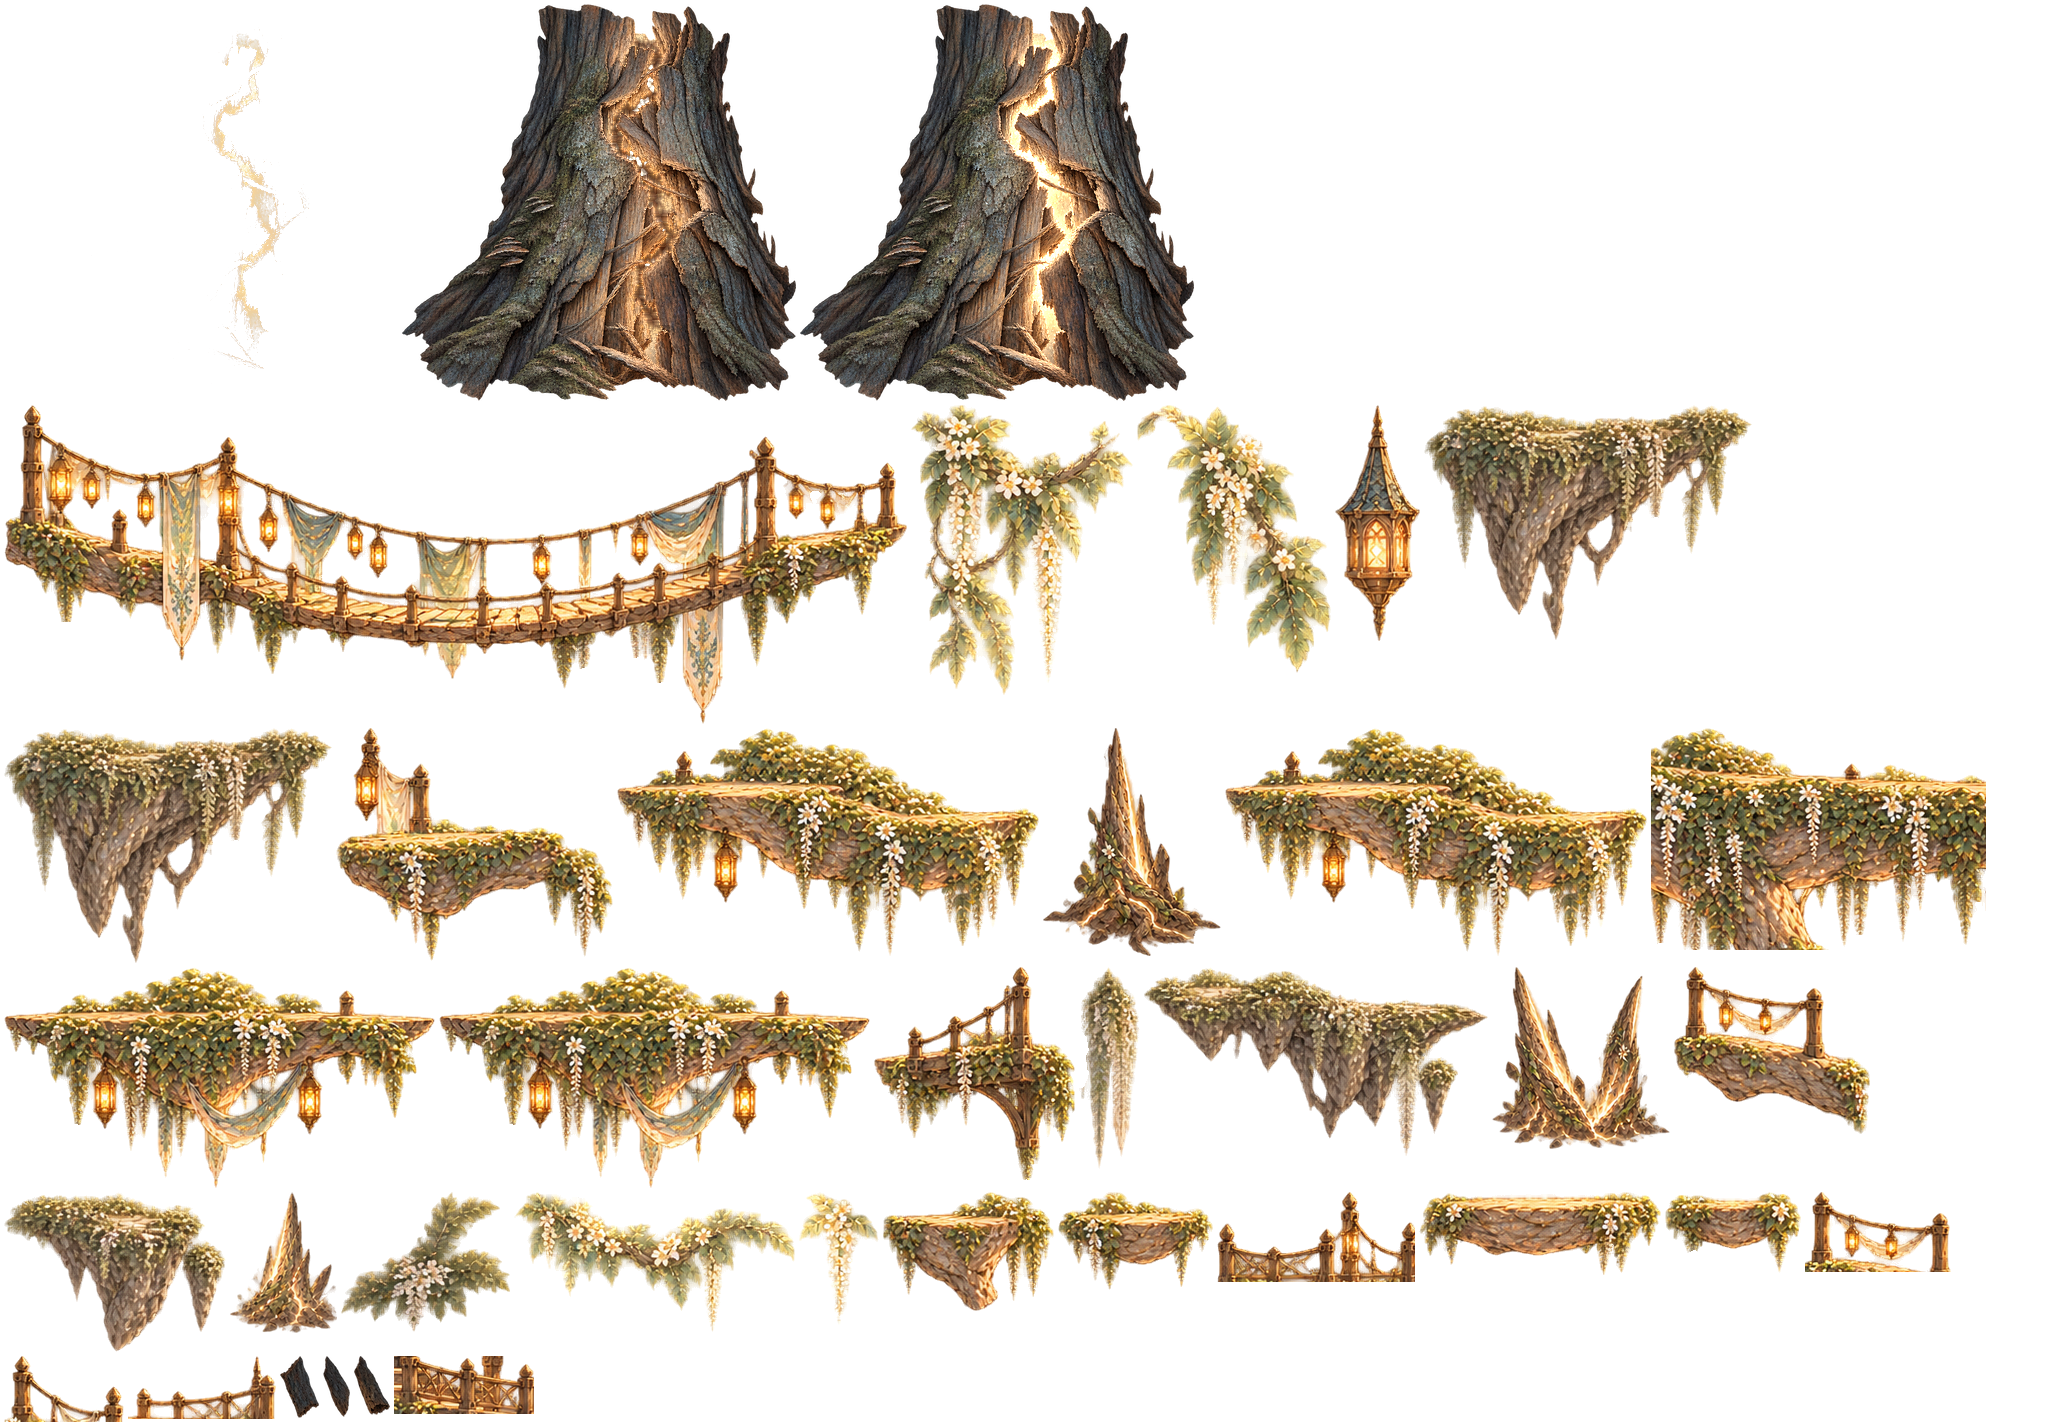
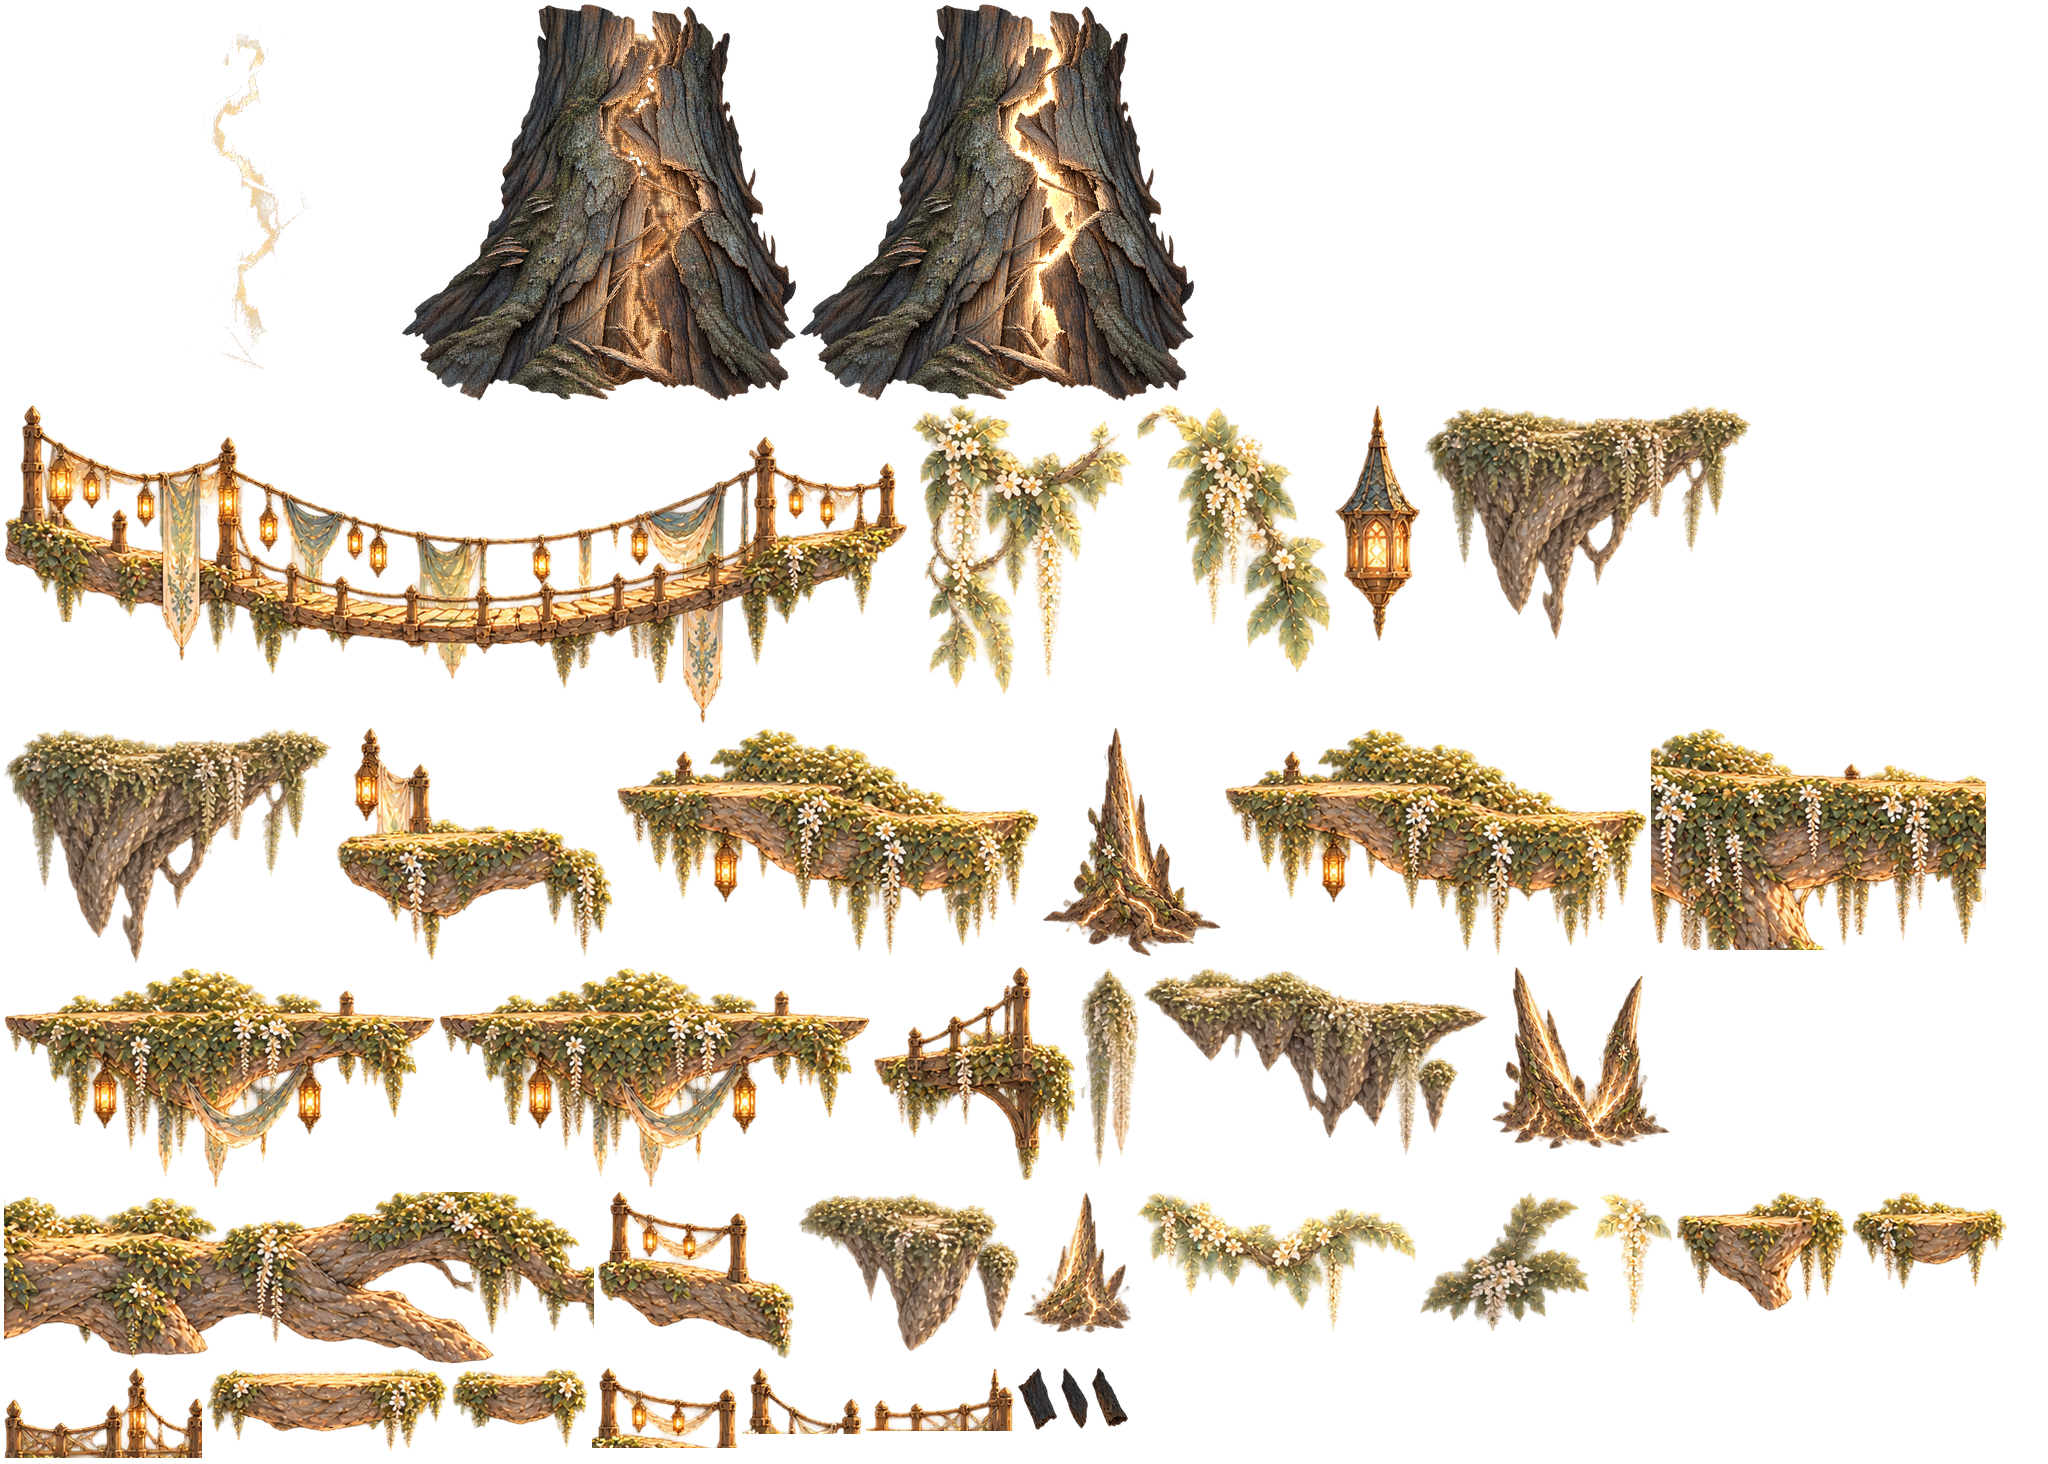
지형 리뉴얼(마을): 이끼·꽃 덮인 굵은 가지 바닥 띠(top_e), 어지러운 난간 조각 빼기, 설명서(TERRAIN.md 7장)·기획서 한 줄

diff --git a/TERRAIN.md b/TERRAIN.md
@@ -4,7 +4,7 @@
 코드로 그리던 옛 지형(`TerrainStyle`, 이끼·덩굴을 도형으로 그림)을 지역별로 하나씩 바꿔 간다.
 **충돌(발판 사각형·경사 다각형)은 그대로**고, 겉모습만 바뀐다. 그림 옷이 없는 지역은 옛 방식으로 그대로 그린다.
 
-지금 그림 옷이 있는 지역: **수관(canopy)** 13방 전부.
+지금 그림 옷이 있는 지역: **수관(canopy)** 13방 전부, **마을(village)** 6방 전부 (`data/terrain/village.json` — 아래 7장).
 
 ---
 
@@ -38,6 +38,7 @@
 | `ground` | 큰 바닥·덩어리·두꺼운 경사의 드러난 윗면 | 윗면을 따라 토막을 이어 깐다. 발 선 아래 `band` px 까지만 그리고 `fade` px 동안 몸통 결로 녹아든다. 절벽 끝은 끝 조각(뿌리가 늘어진 부분), 이웃 지형으로 이어지면 `overlap` px 겹쳐 서서히 사라진다 |
 | `hang` | 드러난 아랫면(천장·덩어리 밑), 드러난 높은 옆면 | 덩굴·꽃 조각을 띄엄띄엄 매단다 |
 | `bush` | 큰 윗면 | 가끔 작은 덤불 |
+| `prop` | 큰 윗면 (그 역할이 있는 지역만 — 마을의 난간·등불 줄 토막) | 띠 위에 띄엄띄엄 세운다(`params.prop`: gap_min/gap_max 빈 길이, edge 절벽 끝 거리, sink 밑동 묻기 — 밑동은 서서히 사라짐, min_len, clear, size). 방의 `Exits`·`Interactables`·`Markers` 자리 둘레(clear px)는 비운다. 그림만, 소녀 뒤 |
 | `thorn` | 가시(Thorns) | 크기를 섞어 두 줄로 겹쳐 세운다. 밑동은 밑면에 `sink` px 묻고, 끝은 상자 높이의 `reach_min`~`reach_max` 배(밑면에서 잰 값, 판정 끝은 0.7). 방향(`facing_dir`) 0 위·1 아래·2 왼쪽·3 오른쪽 — 옆을 향하면 세로로 늘어서고 판정(`Thorns.hit_rect`)도 같은 틀로 돈다 |
 | `shard` | 금 간 벽이 부서질 때 | 껍질 파편 |
 | `cracked` (+`_closed`, `_glow`) | 금 간 벽 | `extras` 의 `kind: "cracked"` 가 세 장을 만든다 (아래 4장) |
@@ -72,11 +73,18 @@
      옆 조각이 섞이면 `"keep": "largest"`. 다른 시트에서 가져오면 `"sheet"`. 크면 `"scale": 0.5`.
      자동으로 잰 걷는 구간이 이상하면 `"walk": [x0, x1]`(조각 안 px)로 바로잡는다.
      덩어리를 고른 뒤 상자를 더 좁히려면 `"clip": [x, y, w, h]`(시트 px) — 그 사각형 밖은 잘라 낸다 (곧은 사각형 자르기만 된다).
-   - `cut.fill`: 몸통 결 재료(`from`: 조각 이름들)와 고를 색 범위(`hue` 도, `sat`, `val`), 네모 크기(`patch`), 결 방향(`vertical`), 밝기(`bright`)
+     **난간·기둥·등불이 바닥판 위로 솟은 조각**(다리·발코니)은 자동으로 잰 발 딛는 선이 난간 꼭대기에 잡힌다 →
+     `"top_line": [[x, y], …]`(시트 px 꺾은선, 바닥판 윗면)으로 직접 정한다. 걷는 구간은 꺾은선 처음~끝(`walk` 로 바꿀 수 있다).
+     가운데가 처진 흔들다리도 이 선을 펴서 평평한 발판에 맞춘다. 시트 위 px 은 격자 미리보기로 읽는다(마을 json 의 bridge_a 참고).
+   - `cut.fill`: 몸통 결 재료(`from`: 조각 이름들)와 고를 색 범위(`hue` 도, `sat`, `val`), 네모 크기(`patch`), 결 방향(`vertical`), 밝기(`bright`),
+     대비(`contrast`, 없으면 그대로 — 덮어 붙이며 흐려진 결을 또렷하게; 평균 밝기는 그대로). 재료는 결 방향이 비슷한 조각끼리 고른다(섞으면 결이 어지럽다).
    - `cut.extras`: 금 간 벽 (`{"name": "cracked", "kind": "cracked", "sheet", "src", "out_scale", "bright"}`)
    - `roles`: 역할별 조각 목록을 덮어쓴다 (같은 이름을 여러 번 쓰면 더 자주 나온다 — 예: 바닥 띠 `["ground_a", "ground_a", "ledge_a"]`)
    - `params.ground.caps`: 절벽 끝에 쓸 바닥 조각 (끝이 자연스럽게 끝나는 것만)
    - `tint`(정화 후 색 곱하기, 1 이하), `lift`(발 선을 충돌 윗면보다 몇 px 위에), `fill`(몸통 밝기), `params`(역할별 세기), `ash`(잿빛 팔레트, 4장)
+   - `room_tint`: `{방 id: [r, g, b]}` — 그 방만 다른 정화 후 색 (배경이 밤처럼 어두운 방은 지형을 밝게, 환한 방은 어둡게 해 앞 지형이 갈라져 읽히게; `TerrainSkin.tint_for`)
+   - `params.<branch|slab>.fit_tucked`: true 면 끝이 이웃 지형에 덮인 발판도 한 조각으로 맞춘다(덮인 끝 밖 그림은 이웃 속에서 서서히 사라짐). 기본은 이어 붙이기 — 다리처럼 토막 내면 어색한 조각용
+   - 방 파일에서 발판 하나의 조각을 정하려면 그 노드에 `metadata/terrain_piece = "<조각 이름>"` (예: 등불 골목 계단 P3 = 흔들다리 `bridge_a`). 맞으면 한 조각, 아니면 그 조각으로 이어 붙인다. 충돌은 그대로
 3. **자르기**: `/Users/wj/Projects/SeedWT/godot --headless --path . -s res://tools/terrain_cut.gd -- <지역>`
    → `art/terrain/<지역>/` 와 `screenshots/terrain_<지역>_pieces.png` (빨간 선 = 발 딛는 선, 초록 = 걷는 구간 끝, 옅은 빨강 = 걷는 구간 밖).
    그 다음 **꼭** `tools/cloud_bootstrap.sh` (또는 `godot --headless --import`) — 안 하면 게임이 옛 그림을 쓴다.
@@ -132,6 +140,8 @@
   (수관 13방: 모든 지형이 그림, 충돌 그대로, 드러난 윗면마다 발밑 8px 이 그림으로 90% 넘게 덮이고 그림 윗선이 충돌 윗면 ±10px,
   **드러난 충돌 끝 밖 발 높이에 그림이 34px 넘게 남지 않음**, 몸통 결이 묶음 맨 아래 겹, 방의 가시 그림이 판정을 덮고 끝이 상자 위 0.5h 이하,
   가시 네 방향(가로·세로 상자)의 그림 상자·판정 자리, 만들기 비용, 정화 프레임에 다시 안 만들기, 잿빛 표, 금 간 벽 단계·부서짐, 기록물 그림.)
+  **수관 밖의 그림 옷 지역**(지금은 마을)도 같은 기준으로 잰다 (9-2, `_probe_art_regions` — 방 목록은 `scenes/rooms/*.tscn` 의 `region` 으로 찾으므로
+  새 지역을 입혀도 시험을 고칠 필요가 없다). 발 딛는 선을 손으로 정한 조각(`top_line`)은 난간이 '빽빽한 윗면'으로 잡히므로 윗선 대신 바닥판(충돌 윗면 2px 아래)이 80% 넘게 차 있는지 본다.
   `--verbose` 면 발밑이 빈 자리와 끝 밖 그림이 긴 곳을 찍는다.
 - **실제 렌더러 비용**: `godot --path . res://tools/probe_terrain.tscn -- --cost`
 - **지형 감사**: `python3 -I tools/audit_rooms.py` 오류 0 (충돌은 바꾸지 않으므로 그대로여야 한다).
@@ -143,3 +153,14 @@
   **GPU 칠하기 비용(겹쳐 칠하기)은 이 렌더러에서 잴 수 없어 재지 않았다** — 잿빛 셰이더는 정화 전 화면의 잿빛 재질 겹마다 색상 계산 + 표 찾기 3번을 한다.
   아이폰 11 Pro 의 잿빛 수관 방에서 프레임을 꼭 확인할 것. (`probe_terrain -- --cost` 의 '0.49배'는 옛 방식 두 가지끼리의 비교다.)
 - atlas 는 GPU 압축(VRAM 압축 — 모바일은 ETC2, `compress/high_quality` 를 켜면 ASTC)·밉맵, 몸통 결은 512×512 반복.
+
+## 7. 마을 (village) 그림 옷
+- 시트: `34316BBF…`(나무 다리·흔들다리·떠 있는 판·작은 집·이끼 가지) + `6AB07322… 2`(신전 쪽 가지 섬·등불·덩굴). 매단 덩굴 넷은 수관 시트에서 빌렸다.
+- 바닥 윗면 띠: 이끼·흰 꽃이 덮인 굵은 가지(`top_e`, 가장 자주) + 가지 넷. 떠 있는 발판: 가지·가지 섬(`branch_*`, `isle_*`), 짧은 한쪽 방향 발판은 등불 단 판(`slab_*`).
+  긴 발판(1100px, 사당으로 가는 길)은 저절로 흔들다리(`bridge_a` — 그만 맞는다), 등불 골목 계단 하나는 방 파일에서 흔들다리로 정했다.
+- 난간·등불 줄 토막(`rail_a~d`, prop)을 바닥에 띄엄띄엄 세운다 (포탈·달빛풀·기록물·NPC·등장 자리 둘레는 비움).
+- 매단 장식: 등불(`lamp_tower`), 등나무 꽃(`banner_a`), 덩굴. 몸통 결: 다리 받침 가지·굵은 가지 껍질(가로 결, 대비 1.45).
+- 잿빛: 따뜻한 회색 (`ash` — 무채색·빨강·노랑·초록 띠). 밤 배경 방(등불 골목·숨은 뜰·망루)은 `room_tint` 로 지형을 조금 밝게.
+- 금 간 벽·비밀 천장(옹이)은 수관과 같은 금 간 나무 그림. 가시 그림도 수관과 같은 뿌리 가시(마을 방에는 지금 가시가 없다).
+- 없는 그림(벽·기둥·천장 전용, 마을다운 돌·목재 바닥 띠)은 몸통 결 + 매단 장식으로 대신한다.
+

diff --git a/GAME_DESIGN.md b/GAME_DESIGN.md
@@ -407,7 +407,7 @@
 - **앞쪽 지형 (게임 내 제작):** 뒷배경을 기준으로 그 위에 발판과 지형을 만든다.
   - 지형은 어두운 실루엣 톤이되, **뒷배경의 주된 색을 살짝 입혀** 한 그림처럼 어울리게 한다.
   - 지형 윗면에는 배경의 빛을 받은 **가는 테두리 빛**을 넣는다.
-  - **그림 조각 지형 (2026-10-20):** 기획자가 준 투명 배경 지형 시트를 잘라(가지 발판·바닥 윗면 띠·매단 덩굴·뿌리 가시·금 간 나무) 발판 모양에 맞춰 이어 붙인다. 소녀가 서는 충돌 윗면과 그림의 윗면을 맞춘다(발밑이 비거나 뜨지 않게). 절벽·가지 끝 밖으로는 발 높이에 그림을 20px 남짓만 남긴다(서지 못하는 곳이 발판처럼 보이지 않게). 정화 전 잿빛은 **팔레트 바꾸기**(지역별 잿빛 색표, 예전보다 밝게). 지금은 수관 전부, 다른 지역은 그림이 오는 대로 같은 방식으로. 만드는 법·확인법은 `TERRAIN.md`.
+  - **그림 조각 지형 (2026-10-20):** 기획자가 준 투명 배경 지형 시트를 잘라(가지 발판·바닥 윗면 띠·매단 덩굴·뿌리 가시·금 간 나무) 발판 모양에 맞춰 이어 붙인다. 소녀가 서는 충돌 윗면과 그림의 윗면을 맞춘다(발밑이 비거나 뜨지 않게). 절벽·가지 끝 밖으로는 발 높이에 그림을 20px 남짓만 남긴다(서지 못하는 곳이 발판처럼 보이지 않게). 정화 전 잿빛은 **팔레트 바꾸기**(지역별 잿빛 색표, 예전보다 밝게). 지금은 수관 전부와 마을 전부(나무 다리·흔들다리·떠 있는 판·난간과 등불 줄, 잿빛은 따뜻한 회색), 다른 지역은 그림이 오는 대로 같은 방식으로. 만드는 법·확인법은 `TERRAIN.md`.
 - **수량:** 지역당 배경 2~4장, 1편 전체 약 10장 안팎.
 
 ### 빛과 효과 (셰이더)
